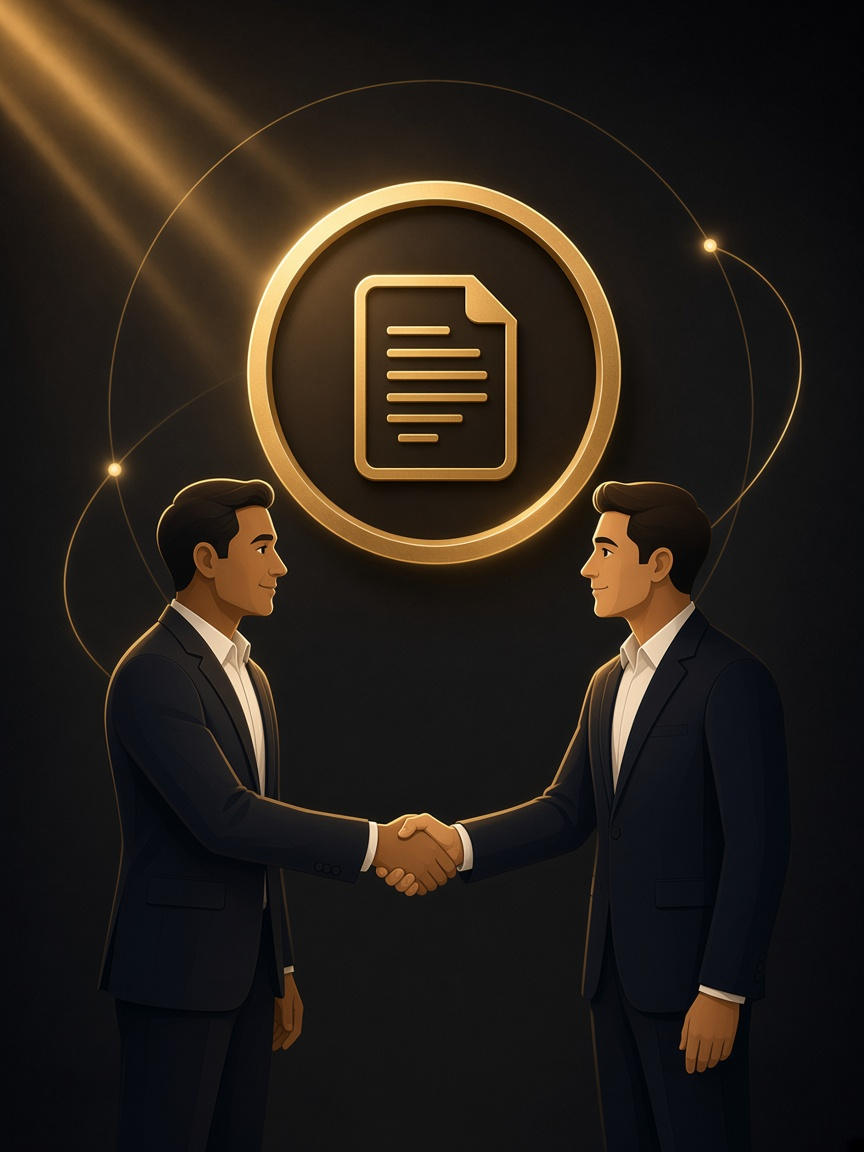
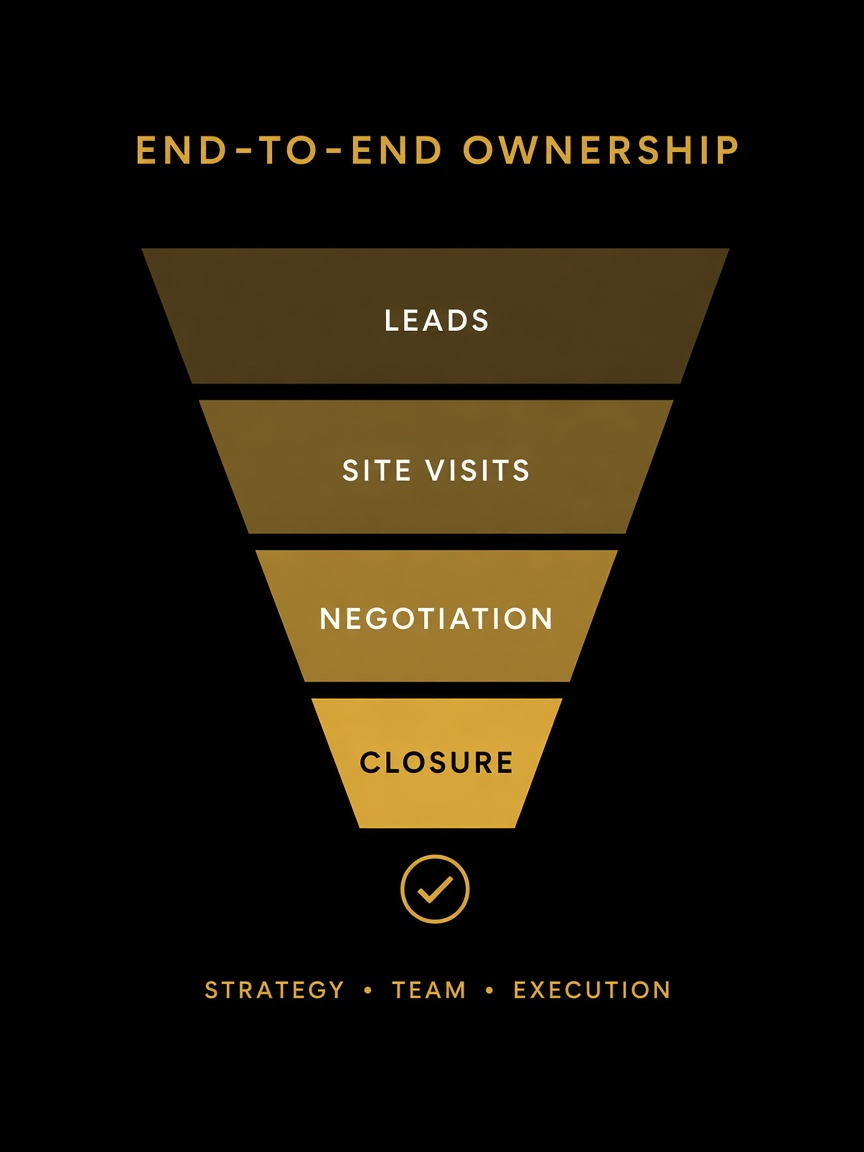
Update global styles and content: adjust aspect ratio and background for media elements, enhance image handling, add new projects to content data, and update alt text for service card covers to improve accessibility and visual clarity.

diff --git a/src/pages/Home.jsx b/src/pages/Home.jsx
@@ -4,11 +4,8 @@ import heroImage from '../assets/site/hero-rajiv.webp'
 import heroCoaching from '../assets/site/hero-slider-coaching.png'
 import heroConsulting from '../assets/site/hero-slider-consulting.jpg'
 import heroRealty from '../assets/site/hero-slider-realty.jpg'
-import wayCoachingVideo from '../assets/site/way-coaching.mp4'
 import wayCoachingPoster from '../assets/site/way-coaching.jpg'
-import wayConsultingVideo from '../assets/site/way-consulting.mp4'
 import wayConsultingPoster from '../assets/site/way-consulting.jpg'
-import wayMandateVideo from '../assets/site/way-mandate.mp4'
 import wayMandatePoster from '../assets/site/way-mandate.jpg'
 import hraLogo from '../assets/site/logo-hra.png'
 import narLogo from '../assets/site/logo-nar.png'
@@ -119,60 +116,27 @@ function HeroTitle({ lang, t, slide }) {
 }
 
 function WayMedia({ cover }) {
-  const videoRef = useRef(null)
-
-  useEffect(() => {
-    const video = videoRef.current
-    if (!video) return
-    video.muted = true
-    const play = () => { video.play().catch(() => {}) }
-    play()
-    const onReady = () => play()
-    video.addEventListener('canplay', onReady)
-    return () => video.removeEventListener('canplay', onReady)
-  }, [cover.video])
-
   return (
     <span className="rw-way-media">
-      {cover.video ? (
-        <>
-          <img src={cover.src} alt="" aria-hidden className="rw-way-poster" />
-          <video
-            ref={videoRef}
-            src={cover.video}
-            poster={cover.src}
-            autoPlay
-            muted
-            loop
-            playsInline
-            preload="auto"
-            aria-label={cover.alt}
-          />
-        </>
-      ) : (
-        <img src={cover.src} alt={cover.alt} loading="lazy" />
-      )}
+      <img src={cover.src} alt={cover.alt} loading="lazy" />
       {cover.overlay}
     </span>
   )
 }
 
-/** Covers for the three service cards, in WAYS order. */
+/** Infographic covers for the three service cards, in WAYS order. */
 const WAY_COVERS = [
   {
     src: wayCoachingPoster,
-    video: wayCoachingVideo,
-    alt: 'A male sales coach gives supportive feedback to a female salesperson',
+    alt: 'People Growth: Listen, Advise, Negotiate, Close',
   },
   {
     src: wayConsultingPoster,
-    video: wayConsultingVideo,
-    alt: 'A male sales advisor gives strategic direction to a client executive',
+    alt: 'Sales System: Audit, Design, Implement, Scale',
   },
   {
     src: wayMandatePoster,
-    video: wayMandateVideo,
-    alt: 'Two sales professionals close an executed agreement with a handshake',
+    alt: 'End-to-End Ownership: Leads through Closure',
   },
 ]
 

diff --git a/src/global.css b/src/global.css
@@ -570,23 +570,16 @@ a:hover { color: var(--ink, #12100D); }
 
 .rw-way-media {
   position: relative; display: block; overflow: hidden;
-  aspect-ratio: 4 / 5; background: var(--chip);
+  aspect-ratio: 3 / 4; background: #0b0a09;
 }
-.rw-way-media img,
-.rw-way-media video {
-  width: 100%; height: 100%; object-fit: cover; display: block;
+.rw-way-media img {
+  width: 100%; height: 100%; object-fit: contain; display: block;
   pointer-events: none;
 }
-.rw-way-media video {
-  position: absolute; inset: 0;
-}
-@media (prefers-reduced-motion: reduce) {
-  .rw-way-media video { display: none; }
-}
-/* A scrim, or the numeral has no contrast of its own against the photo. */
+/* Soft bottom scrim so the service numeral/title stays readable on the graphic. */
 .rw-way-media::after {
   content: ''; position: absolute; inset: 0; pointer-events: none;
-  background: linear-gradient(to top, rgba(11,10,9,.82), rgba(11,10,9,.16) 42%, rgba(11,10,9,0) 68%);
+  background: linear-gradient(to top, rgba(11,10,9,.72), rgba(11,10,9,.08) 38%, rgba(11,10,9,0) 58%);
 }
 
 .rw-way-overlay-title {
@@ -3544,8 +3537,7 @@ html[lang="te"] .rw-contact-row {
 @media (hover: none) {
   .rw-way:hover, .rw-achieve:hover, .rw-voice-card:hover, .rw-figure:hover,
   .rw-assoc-card:hover, .rw-cred-pill:hover { transform: none; }
-  .rw-way:hover .rw-way-media img,
-  .rw-way:hover .rw-way-media video { transform: none; }
+  .rw-way:hover .rw-way-media img { transform: none; }
   .rw-assoc-card:hover .rw-assoc-logo { transform: none; }
 }
 

diff --git a/src/i18n/pages.js b/src/i18n/pages.js
@@ -50,9 +50,9 @@ export const pages = {
     'home.way.2.line': 'Advisory on the part of the business the brochure never fixes.',
     'home.way.3.title': 'You build. We sell, end to end.',
     'home.way.3.line': 'Full ownership of sales strategy, a dedicated onsite team, and end-to-end funnel management.',
-    'home.way.alt.1': 'A male sales coach gives supportive feedback to a female salesperson',
-    'home.way.alt.2': 'A male sales advisor gives strategic direction to a client executive',
-    'home.way.alt.3': 'Two sales professionals close an executed agreement with a handshake',
+    'home.way.alt.1': 'People Growth chart: Listen, Advise, Negotiate, Close',
+    'home.way.alt.2': 'Sales System cycle: Audit, Design, Implement, Scale',
+    'home.way.alt.3': 'End-to-End Ownership funnel: Leads to Closure',
     'home.words': 'In their words',
     'home.quote': 'I never stopped selling. That is the whole method; everything I pass on was closed first, shared second.',
     'home.more.eyebrow': '& MORE',

diff --git a/src/data/content.js b/src/data/content.js
@@ -904,4 +904,6 @@ export const PROJECTS = [
   { name: 'Alora', area: 'Mokila', status: 'Mandate' },
   { name: 'Aika', area: 'Kokapet', status: 'Mandate' },
   { name: 'Aranya', area: 'Manchirevula', status: 'Mandate' },
+  { name: 'Eka One', area: 'Kokapet', status: 'Mandate' },
+  { name: 'Sonthalia', area: 'Kokapet', status: 'Mandate' },
 ]

diff --git a/src/data/projects.js b/src/data/projects.js
@@ -43,6 +43,8 @@ export const PROJECT_SLUGS = {
   'Aika': 'aika',
   'Aranya': 'aranya',
   'Amora': 'amora',
+  'Eka One': 'eka-one',
+  'Sonthalia': 'sonthalia',
 }
 
 /** Resolve a CDN path (or absolute URL) from the API to a loadable image URL. */
